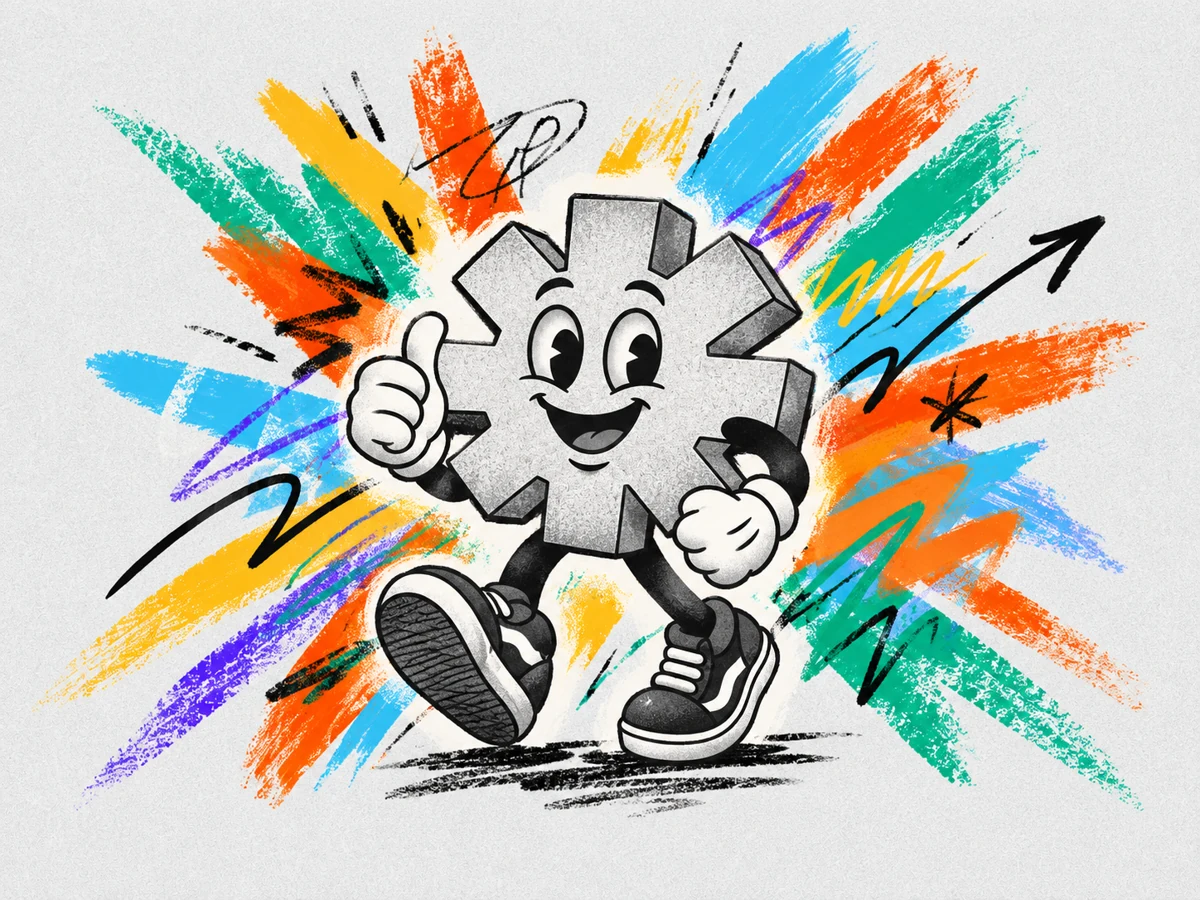
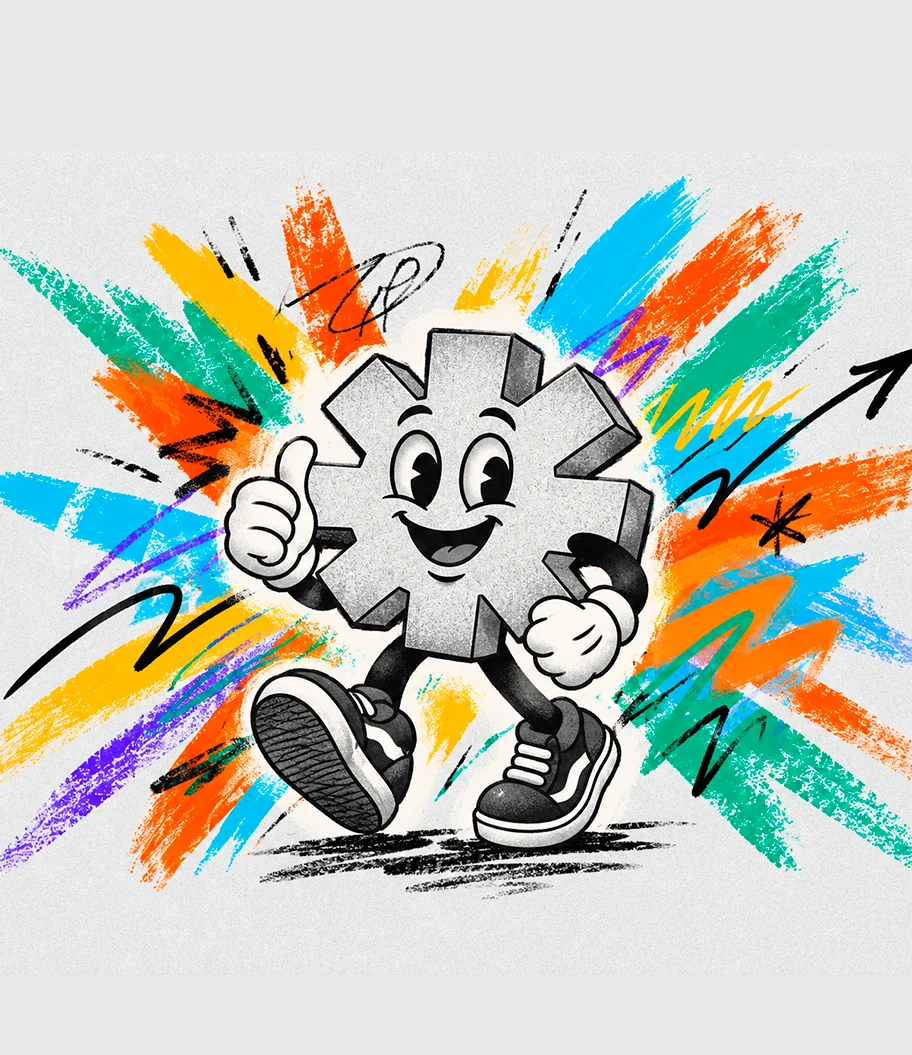
FIX: ajusta abertura para janela 3:2 e arte vertical

diff --git a/docs/design/photohouse-loading/index.html b/docs/design/photohouse-loading/index.html
@@ -6,7 +6,7 @@
   <title>PhotoHouse — estudo da tela de carregamento</title>
   <style>
     body{margin:0;background:#151613;color:#eef0e8;font-family:Roboto,Arial,sans-serif}
-    main.preview-page{max-width:1080px;margin:24px auto;padding:0 8px}
+    main.preview-page{max-width:780px;margin:24px auto;padding:0 8px}
     .btn{font:inherit;background:transparent;color:inherit;border:1px solid #42463a;border-radius:6px;padding:8px 12px;cursor:pointer}.btn:focus-visible{outline:2px solid #BFFE00;outline-offset:3px}.sr-only{position:absolute;width:1px;height:1px;padding:0;margin:-1px;overflow:hidden;clip:rect(0,0,0,0);white-space:nowrap;border:0}
 
   </style>
@@ -22,7 +22,7 @@
         <div class="ph-track" role="progressbar" aria-label="Carregamento demonstrativo" aria-valuemin="0" aria-valuemax="100" aria-valuenow="0"><div class="ph-fill"></div></div>
       </section>
       <section class="ph-mascot" aria-label="Arte base do futuro GIF do Housinho">
-        <img class="ph-art" src="assets/housinho-base.webp" alt="Housinho sorrindo e fazendo sinal de positivo, com pinceladas coloridas ao fundo" width="1448" height="1086">
+        <img class="ph-art" src="assets/housinho-base.webp" alt="Housinho inteiro em composição vertical, sorrindo e fazendo sinal de positivo, com pinceladas coloridas ao fundo" width="912" height="1055">
       </section>
     </main>
   </div>
@@ -30,23 +30,23 @@
 </div>
 <style>
 @import url('https://fonts.googleapis.com/css2?family=Roboto:wght@400;700;800&display=swap');
-#ph-loading-preview{padding:30px 22px 18px}
+#ph-loading-preview{padding:30px 22px 18px;max-width:780px;margin:0 auto;box-sizing:border-box}
 #ph-loading-preview .ph-window{--ph-green:#bffe00;--ph-black:#070807;--ph-ink:#f1f2ed;--ph-secondary:#93978a;--ph-muted:#777b70;background:var(--ph-black);color:var(--ph-ink);border:1px solid var(--ph-green);border-radius:24px;overflow:hidden;font-family:'Roboto',Arial,sans-serif;box-shadow:0 0 3px #bffe00cc,0 0 14px #bffe0066,0 0 30px #bffe0033,inset 0 0 12px #bffe000c;padding-bottom:0;position:relative}
 #ph-loading-preview .ph-header{position:absolute;top:28px;left:32px;display:flex;align-items:center;gap:20px;padding:0;z-index:1}
 #ph-loading-preview .ph-brand{font-size:24px;font-weight:800;letter-spacing:-1.3px;white-space:nowrap}
 #ph-loading-preview .ph-brand>span{color:var(--ph-green)}
 #ph-loading-preview .ph-track{height:2px;background:#252820;overflow:hidden}
-#ph-loading-preview .ph-content{display:grid;grid-template-columns:minmax(0,.8fr) minmax(0,1.4fr);gap:0;margin:0;align-items:center}
+#ph-loading-preview .ph-content{display:grid;grid-template-columns:minmax(0,42.37fr) minmax(0,57.63fr);aspect-ratio:3/2;gap:0;margin:0;align-items:center}
 #ph-loading-preview .ph-loading{padding:32px;min-width:0;box-sizing:border-box}
 #ph-loading-preview .ph-number{display:flex;align-items:flex-start;justify-content:space-between;gap:9px;margin:25px 0 23px;white-space:nowrap;width:100%}
 #ph-loading-preview .ph-value{display:inline-block;flex:none;font-size:var(--ph-number-size,clamp(70px,16.3vw,130px));line-height:.85;font-weight:800;letter-spacing:-8px;font-variant-numeric:tabular-nums}
 #ph-loading-preview .ph-percent{flex:none;color:var(--ph-green);font-size:35px;line-height:1;font-weight:400;margin-left:0;margin-top:-3px}
 #ph-loading-preview .ph-fill{height:100%;width:0;background:var(--ph-green)}
-#ph-loading-preview .ph-mascot{display:flex;align-items:center;justify-content:center;min-width:0;padding:0}
-#ph-loading-preview .ph-art{display:block;width:100%;height:auto;object-fit:contain;border:0;border-radius:0}
+#ph-loading-preview .ph-mascot{display:flex;align-items:center;justify-content:center;min-width:0;min-height:0;height:100%;padding:0;background:#e7e7e7}
+#ph-loading-preview .ph-art{display:block;width:100%;height:100%;object-fit:contain;border:0;border-radius:0}
 #ph-loading-preview .ph-preview-controls{display:flex;align-items:center;justify-content:space-between;gap:12px;flex-wrap:wrap;margin-top:12px}
 #ph-loading-preview .ph-preview-controls>span:first-child{font:10px/1.5 'Roboto',Arial,sans-serif;opacity:.65;letter-spacing:.5px}
-@media(max-width:540px){#ph-loading-preview .ph-header{top:24px;left:22px}#ph-loading-preview .ph-content{grid-template-columns:1fr}#ph-loading-preview .ph-loading{padding:82px 22px 32px}#ph-loading-preview .ph-percent{font-size:35px}#ph-loading-preview .ph-mascot{padding:0}}
+@media(max-width:540px){#ph-loading-preview .ph-header{top:24px;left:22px}#ph-loading-preview .ph-content{grid-template-columns:1fr;aspect-ratio:auto}#ph-loading-preview .ph-loading{padding:82px 22px 32px}#ph-loading-preview .ph-percent{font-size:35px}#ph-loading-preview .ph-mascot{height:auto;padding:0}#ph-loading-preview .ph-art{height:auto}}
 </style>
 <script>
 (()=>{

diff --git a/ATTRIBUTION.md b/ATTRIBUTION.md
@@ -10,7 +10,7 @@ next to them.
 
 | Path | Title | Author | Source | License / authorization |
 |---|---|---|---|---|
-| `docs/design/photohouse-loading/assets/housinho-base.webp` | Mascote Engrenagem em Explosão Colorida — loading-screen study | Not specified by user | User attachment, 2026-10-17; compressed copy retaining the original composition | User explicitly supplied the art for the prototype and requested its versioning in the feature branch/PR. No separate public license supplied; see adjacent `assets/README.md`. |
+| `docs/design/photohouse-loading/assets/housinho-base.webp` | ILLUSTRATOR-JANELA-DE-ABETURA — vertical loading-screen study | Not specified by user | User attachment, 2026-10-17, 912 × 1055; compressed copy retaining the original composition | User explicitly supplied the art for the prototype and requested its versioning in the feature branch/PR. No separate public license supplied; see adjacent `assets/README.md`. |
 
 ## Bundled in the app
 

diff --git a/docs/design/photohouse-loading/README.md b/docs/design/photohouse-loading/README.md
@@ -17,6 +17,7 @@ Com movimento reduzido ativado no sistema, exibe diretamente o estado concluído
 - Fundo preto e destaques verde neon `#BFFE00`, com luz ao redor da janela.
 - Família Roboto; carregamento à esquerda e percentual ajustado à largura da barra.
 - Housinho à direita, com a ilustração inteira e suas proporções preservadas.
+- Janela de proporção 3:2, próxima do estudo inicial, com arte vertical 912 × 1055.
 - Arte encostada no topo, lateral e base, sem margens ou moldura própria.
 - Composição em coluna em janelas estreitas.
 - Textos auxiliares, divisória central e rodapé do primeiro estudo removidos.

diff --git a/docs/design/photohouse-loading/assets/README.md b/docs/design/photohouse-loading/assets/README.md
@@ -1,7 +1,7 @@
 # Housinho — arte provisória
 
 `housinho-base.webp` é uma cópia comprimida, com proporções e composição
-preservadas, da imagem **Mascote Engrenagem em Explosão Colorida.png** fornecida
+preservadas, da imagem **ILLUSTRATOR-JANELA-DE-ABETURA.png** (912 × 1055) fornecida
 pelo solicitante nesta conversa em 17/10/2026 para testar o design da issue #5.
 
 O solicitante autorizou o uso no protótipo e seu versionamento nesta branch/PR.
